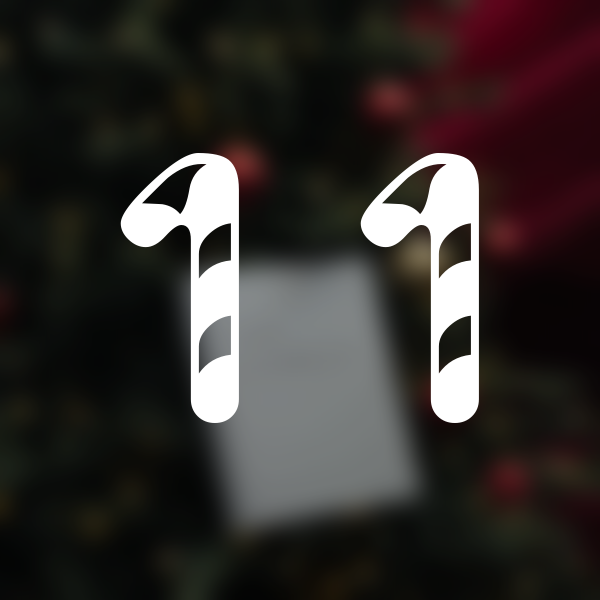
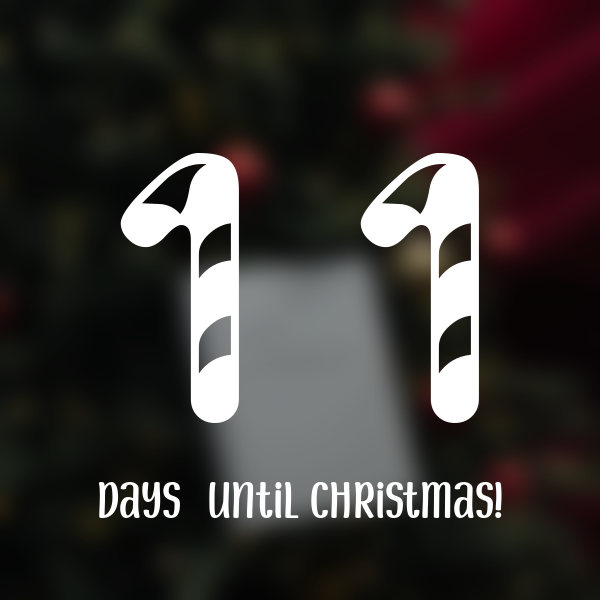
Starting testing of gh action

Changed region(s): [[0.33, 0.78, 0.84, 0.87], [0.15, 0.78, 0.3, 0.87]]

diff --git a/python/image_gen.py b/python/image_gen.py
@@ -1,8 +1,7 @@
 import datetime, os
 from io import BytesIO
-import webbrowser
 from PIL import	Image, ImageFilter,	ImageDraw, ImageFont, ImageEnhance
-from random	import choice, shuffle
+from random	import choice
 import requests
 
 def	days_till_christmas():
@@ -90,15 +89,14 @@ text_on_image.text((width/2, height/2),	str(current_days_till_christmas+1),	font
 
 # currently not working 
 #draw "Days	until Christmas" on image
-font = ImageFont.truetype("./python/fonts/Smiling.otf", 36)
+font = ImageFont.truetype("./python/fonts/Smiling.otf", 50)
 
 if current_days_till_christmas+1 == 1:
-	text_on_image.text((width/2, height/2 +	450), "Day until Christmas!", font=font, anchor="mm")
+	text_on_image.text((width/2, height/2 + 200), "Day until Christmas!", font=font, anchor="mm")
 else:	
-	text_on_image.text((width/2, height/2 +	450), "Days	until Christmas!", font=font, anchor="mm")
+	text_on_image.text((width/2, height/2 +	200), "Days	until Christmas!", font=font, anchor="mm")
 	
 # save image
-cur_img.save(f"./currentImage.png")
-	
+cur_img.save(f"../currentImage.png")
 	
 # https://stackoverflow.com/questions/1970807/center-middle-align-text-with-pil'''
